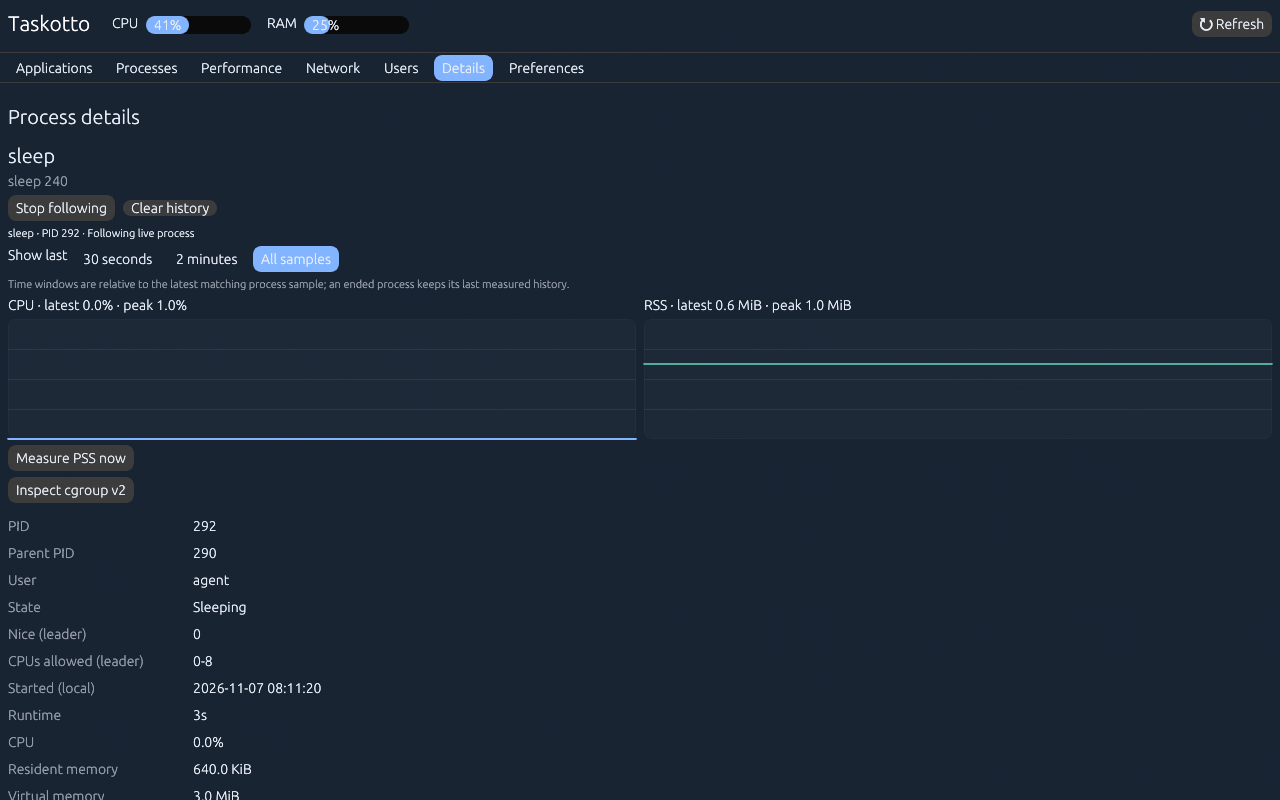
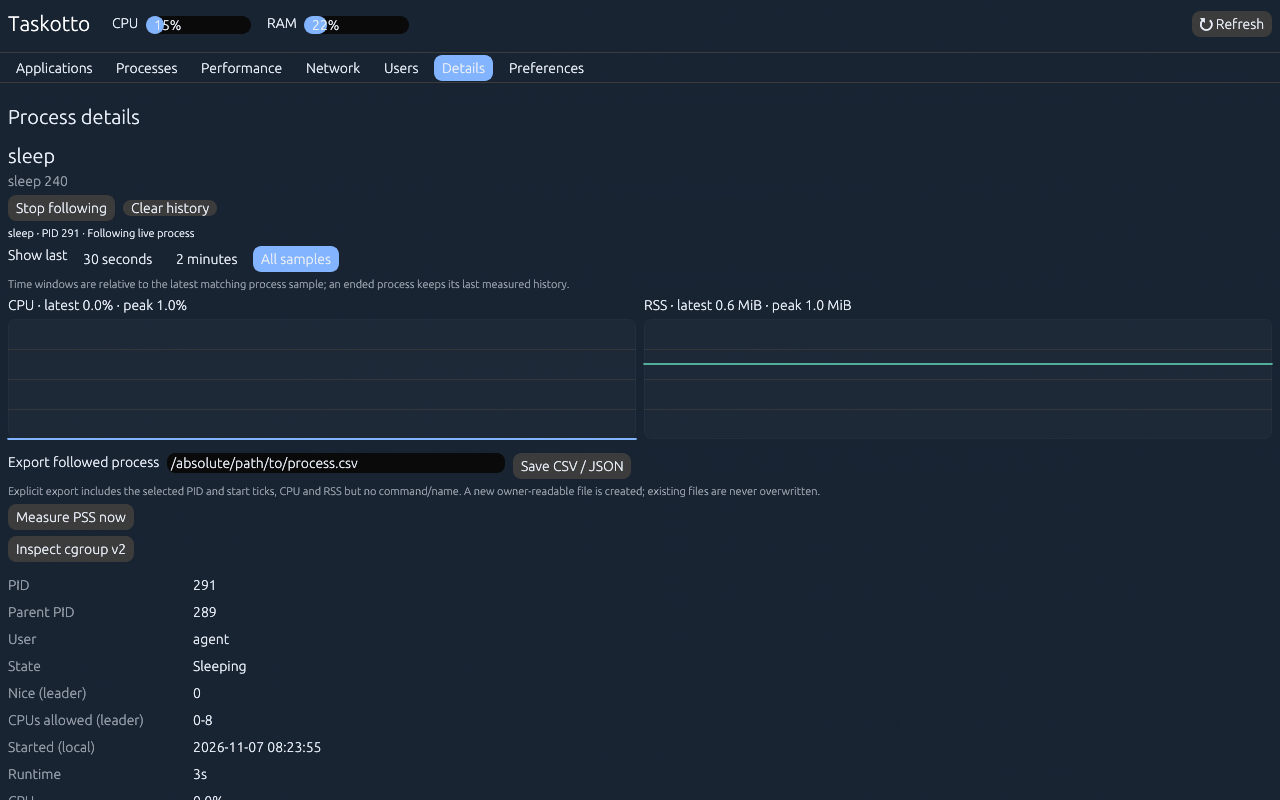
feat: export followed process history privately (rc50) (#58)

diff --git a/src/ui/history_export.rs b/src/ui/history_export.rs
@@ -1,7 +1,7 @@
 //! Explicit, bounded exports of the current GUI session's sampler-visible
-//! system metrics; procfs/namespace visibility can vary in containers.
-//! samples. No PIDs, process names, commands, retained files or worker daemon.
-use super::History;
+//! system metrics and opt-in process-follow data. Process export includes PID
+//! identity by explicit choice; neither mode retains files automatically.
+use super::{History, ProcessFollow};
 use serde::Serialize;
 use std::{
     fmt::Write as _,
@@ -33,6 +33,24 @@ struct Row {
     psi_memory_full_avg10_percent: Option<f32>,
     psi_io_some_avg10_percent: Option<f32>,
     psi_io_full_avg10_percent: Option<f32>,
+}
+
+#[derive(Serialize)]
+struct ProcessExport {
+    format_version: u8,
+    scope: &'static str,
+    pid: i32,
+    start_ticks: u64,
+    nominal_interval_ms: u64,
+    sample_count: usize,
+    samples: Vec<ProcessRow>,
+}
+
+#[derive(Serialize)]
+struct ProcessRow {
+    timestamp_unix_ms: Option<u64>,
+    cpu_percent: Option<f32>,
+    resident_mib: Option<f32>,
 }
 
 fn valid(value: f32) -> Option<f32> {
@@ -151,6 +169,92 @@ pub(super) fn write_new(
             ));
         }
     };
+    write_private_new(path, &contents)?;
+    Ok(export.sample_count)
+}
+
+fn process_rows(follow: &ProcessFollow, interval_ms: u64) -> io::Result<ProcessExport> {
+    let count = follow.cpu.len();
+    if count == 0 {
+        return Err(io::Error::new(
+            io::ErrorKind::InvalidInput,
+            "Followed process has no samples yet",
+        ));
+    }
+    if count > ProcessFollow::LIMIT
+        || count != follow.rss_mib.len()
+        || count != follow.sampled_at_unix_ms.len()
+    {
+        return Err(io::Error::new(
+            io::ErrorKind::InvalidData,
+            "Process-follow history is not aligned",
+        ));
+    }
+    let samples = (0..count)
+        .map(|index| ProcessRow {
+            timestamp_unix_ms: follow.sampled_at_unix_ms[index],
+            cpu_percent: valid(follow.cpu[index]),
+            resident_mib: valid(follow.rss_mib[index]),
+        })
+        .collect();
+    Ok(ProcessExport {
+        format_version: 1,
+        scope: "linux-observed-process",
+        pid: follow.pid,
+        start_ticks: follow.start_ticks,
+        nominal_interval_ms: interval_ms,
+        sample_count: count,
+        samples,
+    })
+}
+
+pub(super) fn write_process_new(
+    follow: &ProcessFollow,
+    path: &Path,
+    interval_ms: u64,
+) -> io::Result<usize> {
+    if !path.is_absolute() {
+        return Err(io::Error::new(
+            io::ErrorKind::InvalidInput,
+            "Enter an absolute destination path",
+        ));
+    }
+    let export = process_rows(follow, interval_ms)?;
+    let contents = match path.extension().and_then(|ext| ext.to_str()) {
+        Some("json") => serde_json::to_vec_pretty(&export).map_err(io::Error::other)?,
+        Some("csv") => {
+            let mut csv = String::from(
+                "format_version,scope,pid,start_ticks,nominal_interval_ms,timestamp_unix_ms,cpu_percent,resident_mib\n",
+            );
+            for sample in &export.samples {
+                writeln!(
+                    &mut csv,
+                    "{},{},{},{},{},{},{},{}",
+                    export.format_version,
+                    export.scope,
+                    export.pid,
+                    export.start_ticks,
+                    export.nominal_interval_ms,
+                    cell(sample.timestamp_unix_ms),
+                    cell(sample.cpu_percent),
+                    cell(sample.resident_mib)
+                )
+                .expect("writing to a String cannot fail");
+            }
+            csv.into_bytes()
+        }
+        _ => {
+            return Err(io::Error::new(
+                io::ErrorKind::InvalidInput,
+                "Destination must end in .csv or .json",
+            ));
+        }
+    };
+    write_private_new(path, &contents)?;
+    Ok(export.sample_count)
+}
+
+fn write_private_new(path: &Path, contents: &[u8]) -> io::Result<()> {
     let mut options = OpenOptions::new();
     options.write(true).create_new(true);
     #[cfg(unix)]
@@ -159,11 +263,11 @@ pub(super) fn write_new(
         options.mode(0o600);
     }
     let mut file = options.open(path)?;
-    if let Err(error) = file.write_all(&contents).and_then(|()| file.sync_all()) {
+    if let Err(error) = file.write_all(contents).and_then(|()| file.sync_all()) {
         let _ = std::fs::remove_file(path);
         return Err(error);
     }
-    Ok(export.sample_count)
+    Ok(())
 }
 
 #[cfg(test)]
@@ -233,5 +337,51 @@ mod tests {
         std::fs::remove_file(&path).unwrap();
         assert!(write_new(&test_history(), Path::new("relative.csv"), 1000).is_err());
         assert!(write_new(&test_history(), Path::new("/tmp/unsupported.txt"), 1000).is_err());
+    }
+
+    #[test]
+    fn process_follow_export_preserves_identity_and_gaps_without_commands() {
+        let mut follow = ProcessFollow::new(&crate::monitor::Process {
+            pid: 1234,
+            start_ticks: 5678,
+            name: "secret-command".into(),
+            ..Default::default()
+        });
+        follow.cpu = VecDeque::from([5.0, 6.0]);
+        follow.rss_mib = VecDeque::from([2.0, 3.0]);
+        follow.sampled_at_unix_ms = VecDeque::from([Some(1_700_000_000_000), None]);
+        let export = process_rows(&follow, 1500).unwrap();
+        assert_eq!(export.sample_count, 2);
+        let json = serde_json::to_string(&export).unwrap();
+        assert!(json.contains("\"pid\":1234"));
+        assert!(json.contains("\"start_ticks\":5678"));
+        assert!(json.contains("\"resident_mib\":3.0"));
+        assert!(!json.contains("secret-command"));
+        assert!(json.contains("\"timestamp_unix_ms\":null"));
+        let path = std::env::temp_dir().join(format!(
+            "taskotto-follow-export-{}-{}.csv",
+            std::process::id(),
+            std::time::SystemTime::now()
+                .duration_since(std::time::UNIX_EPOCH)
+                .unwrap()
+                .as_nanos()
+        ));
+        assert_eq!(write_process_new(&follow, &path, 1500).unwrap(), 2);
+        assert!(write_process_new(&follow, &path, 1500).is_err());
+        let csv = std::fs::read_to_string(&path).unwrap();
+        assert_eq!(csv.lines().count(), 3);
+        assert!(csv.contains("linux-observed-process,1234,5678,1500"));
+        assert!(!csv.contains("secret-command"));
+        #[cfg(unix)]
+        {
+            use std::os::unix::fs::PermissionsExt;
+            assert_eq!(
+                std::fs::metadata(&path).unwrap().permissions().mode() & 0o777,
+                0o600
+            );
+        }
+        std::fs::remove_file(&path).unwrap();
+        follow.rss_mib.pop_back();
+        assert!(process_rows(&follow, 1500).is_err());
     }
 }

diff --git a/src/ui.rs b/src/ui.rs
@@ -150,6 +150,8 @@ struct ProcessFollow {
     sampled_at_unix_ms: VecDeque<Option<u64>>,
     /// Session-only elapsed window, relative to the last observed sample.
     view_seconds: Option<u64>,
+    /// Opt-in destination; never serialized to user preferences.
+    export_path: String,
     missed: usize,
     active: bool,
 }
@@ -166,6 +168,7 @@ impl ProcessFollow {
             rss_mib: VecDeque::new(),
             sampled_at_unix_ms: VecDeque::new(),
             view_seconds: None,
+            export_path: String::new(),
             missed: 0,
             active: true,
         }
@@ -2272,6 +2275,30 @@ impl TaskottoApp {
                 draw_mem(&mut columns[1]);
             });
         }
+        ui.add_space(8.0);
+        ui.horizontal_wrapped(|ui| {
+            ui.label("Export followed process");
+            ui.add(
+                egui::TextEdit::singleline(&mut follow.export_path)
+                    .desired_width(330.0)
+                    .hint_text("/absolute/path/to/process.csv"),
+            );
+            if ui.button("Save CSV / JSON").clicked() {
+                let path = PathBuf::from(follow.export_path.trim());
+                match history_export::write_process_new(follow, &path, self.settings.refresh_ms) {
+                    Ok(count) => {
+                        self.notification = Some(format!(
+                            "Exported {count} followed-process samples: {}",
+                            path.display()
+                        ))
+                    }
+                    Err(error) => {
+                        self.notification = Some(format!("Process-follow export failed: {error}"))
+                    }
+                }
+            }
+        });
+        ui.label(RichText::new("Explicit export includes the selected PID and start ticks, CPU and RSS but no command/name. A new owner-readable file is created; existing files are never overwritten.").small().weak());
     }
 
     fn confirmation_dialog(&mut self, ctx: &egui::Context) {

diff --git a/README.md b/README.md
@@ -6,11 +6,11 @@
 
 A customizable process manager and system monitor written in **Rust**. Runs alone or alongside [RiceBowl](https://github.com/CopyPasteUser/Ricebowl) on **X11 and Wayland**.
 
-![License](https://img.shields.io/badge/license-MIT-blue) ![Rust](https://img.shields.io/badge/language-Rust-orange) ![Status](https://img.shields.io/badge/status-1.0%20RC49-yellow)
+![License](https://img.shields.io/badge/license-MIT-blue) ![Rust](https://img.shields.io/badge/language-Rust-orange) ![Status](https://img.shields.io/badge/status-1.0%20RC50-yellow)
 
 </div>
 
-> **Status:** `1.0.0-rc.49` — seven dedicated interfaces: Frutiger Aero, ChromeOS, Windows 98, XP Luna, Windows 7, Windows 10 and macOS Activity Monitor, plus optional data-defined client screens. **All eight profiles leave the window frame, title and window buttons to RiceBowl/the active window manager**; Taskotto draws only its content, menus and functional toolbars. Native GUI and resource-use acceptance are still outstanding. See [1.0 roadmap](ROADMAP.md), [future development roadmap](EXPANSION_ROADMAP.md) and [QA checklist](QA.md). This is **not yet stable 1.0**.
+> **Status:** `1.0.0-rc.50` — seven dedicated interfaces: Frutiger Aero, ChromeOS, Windows 98, XP Luna, Windows 7, Windows 10 and macOS Activity Monitor, plus optional data-defined client screens. **All eight profiles leave the window frame, title and window buttons to RiceBowl/the active window manager**; Taskotto draws only its content, menus and functional toolbars. Native GUI and resource-use acceptance are still outstanding. See [1.0 roadmap](ROADMAP.md), [future development roadmap](EXPANSION_ROADMAP.md) and [QA checklist](QA.md). This is **not yet stable 1.0**.
 
 ## Screenshots
 
@@ -135,7 +135,7 @@ A customizable process manager and system monitor written in **Rust**. Runs alon
 
 ## What works
 
-- **Processes:** searchable live list, CPU/RAM/I/O/PID/name sort, session-only sort freeze (`Ctrl+Shift+Space`), tree, user filter, process start/runtime and per-process I/O rates. Opt-in **Follow selected process** charts record up to 120 CPU/RSS samples without PID-reuse mistakes; switch between the last **30 seconds, 2 minutes or all observations** using real GUI-receipt timestamps. At narrow widths charts stack vertically; no extra daemon or saved process log. Open generic Details or Preferences → Process follow. Details/Properties/Info summarize observed descendant CPU and **summed RSS** (shared pages may overlap), plus read-only leader Nice/CPU-affinity metadata (other threads may differ). An explicit **Measure PSS now** action in generic Details/Preferences calculates proportional memory for at most 128 observed tree processes on a background worker; missing procfs permissions show an incomplete report, never fake zero.
+- **Processes:** searchable live list, CPU/RAM/I/O/PID/name sort, session-only sort freeze (`Ctrl+Shift+Space`), tree, user filter, process start/runtime and per-process I/O rates. Opt-in **Follow selected process** charts record up to 120 CPU/RSS samples without PID-reuse mistakes; switch between the last **30 seconds, 2 minutes or all observations** using real GUI-receipt timestamps. At narrow widths charts stack vertically; no extra daemon or automatically saved process log. An explicit **Save CSV / JSON** action exports the currently followed PID, start ticks and samples to a new owner-only file (no command/name, no overwrite). Open generic Details or Preferences → Process follow. Details/Properties/Info summarize observed descendant CPU and **summed RSS** (shared pages may overlap), plus read-only leader Nice/CPU-affinity metadata (other threads may differ). An explicit **Measure PSS now** action in generic Details/Preferences calculates proportional memory for at most 128 observed tree processes on a background worker; missing procfs permissions show an incomplete report, never fake zero.
 - **Safe actions:** terminate, force kill, pause and resume with confirmation and PID-reuse protection via Linux `pidfd`.
 - **Performance:** CPU/core load, RAM/swap, network RX/TX and disk read/write rates, bounded comparative rolling graphs. Linux **PSI** shows measured CPU, memory and I/O task-stall percentages over 10/60/300 seconds, bounded PSI trend charts and conservative, evidence-labeled investigation hints in System Performance and all rice Preferences. Thresholds are display heuristics, not kernel limits or proven causes.
 - **Session export:** In Preferences, explicitly export up to 120 Linux sampler-visible system samples as a new `.csv` or `.json` file. Exports include GUI-receipt Unix timestamps, nominal interval and units; container visibility may vary. No file is written by default; no existing destination is overwritten, and no process names, commands or PIDs are included. Missing PSI readings remain missing.

diff --git a/QA.md b/QA.md
@@ -39,7 +39,8 @@ archive and invokes its binary and local desktop installer before publishing.
 - [ ] With a live process list, press Ctrl+Shift+Space (and use Preferences → Process table) to freeze ordering. Verify values still change, a new child stays under its parent in tree mode, and unfreeze immediately restores the configured sort. Restart Taskotto to confirm freeze is not persisted. Check the generic **Freeze order** button as well.
 - [ ] In generic Details or Preferences → Process follow, select a disposable process and click **Follow selected process**. Verify real CPU/RSS trends, stop/clear/retarget, window resize and keyboard navigation. Exit the process: no invented zero samples; after three missed samples tracking ends and never attaches to a reused PID. Restart: history is gone.
 - [ ] While following a live process, switch between 30 seconds, 2 minutes and All samples. Verify displayed CPU/RSS peaks use only the selected elapsed window, gaps do not become zero or fake uniform spacing, and the record remains bounded at 120 observations. Shrink the GUI below 640 px to confirm CPU/RSS charts stack legibly. After stopping or PID reuse, no historical process values should attach to the replacement PID.
-  - [ ] In the timed views, compare points after a deliberately long sampling pause: their horizontal distance must reflect elapsed time. In All samples, horizontal spacing intentionally represents observation order instead.
+- [ ] In the timed views, compare points after a deliberately long sampling pause: their horizontal distance must reflect elapsed time. In All samples, horizontal spacing intentionally represents observation order instead.
+- [ ] Explicitly export a followed process to fresh `.csv` and `.json` absolute paths; compare PID+start-tick identity, GUI-receipt timestamps, CPU%/RSS MiB, missing timestamps and sample count with the screen. Confirm command/name are not exported, 0600 permissions, no overwrites of existing paths, no process history after restart, and correct notification on invalid/no-sample destinations. Verify export still refers to the followed PID if user selection changes.
 - [ ] Switch all 8 profiles, density, custom accent/surface/text, font scale, spacing, corners, table columns/row height and sidebar/top-tabs; reopen and verify persistence.
 - [ ] Launch with `RICEBOWL_RICE=windows7 taskotto` and explicit `--theme xp-luna` override.
 - [ ] Validate `examples/ricepacks/sea-glass.toml` with `--check-ricepack`, then run `--ricepack` on a real desktop. Verify base theme, palette/spacing/navigation and normal process actions; restart without the pack and ensure saved appearance is unchanged.

diff --git a/CHANGELOG.md b/CHANGELOG.md
@@ -2,6 +2,12 @@
 
 Taskotto follows semantic versioning; hardware-dependent stable-release gates are explicit.
 
+## [1.0.0-rc.50] — 2026-11-07
+
+- Added deliberately triggered, private CSV/JSON export of the currently followed process's bounded CPU/RSS history. Includes numeric PID+start-tick identity, observed GUI-receipt timestamps, MiB/percentage units, scope and nominal interval; excludes process name and command, refuses existing files, requires an absolute path and writes owner-only permissions.
+- Reused RC45's safe new-file writer rather than duplicating file logic. Tests cover JSON/CSV fields, missing timestamps, alignment, sensitive-name omission, overwrite refusal and file mode. Process history stays in RAM until user chooses export.
+- Regenerated the real headless process-follow screenshot to include the export control and its privacy explanation.
+
 ## [1.0.0-rc.49] — 2026-11-07
 
 - Added genuine cgroup-local CPU, memory and I/O PSI to the existing selected-PID, asynchronous read-only cgroup v2 inspector. Reuses Taskotto's strictly validated kernel PSI parser for SOME/FULL 10/60/300-second stalled-task percentages and cumulative microseconds; cgroup CPU FULL is supported when present, unlike meaningless system CPU FULL.

diff --git a/RELEASE_NOTES.md b/RELEASE_NOTES.md
@@ -1,4 +1,10 @@
-# Taskotto 1.0.0-rc.49 — release candidate
+# Taskotto 1.0.0-rc.50 — release candidate
+
+## RC50 — Optional private followed-process history export
+
+- The process-follow control in Details and Preferences now offers a separate explicit CSV/JSON export to a new absolute file with Unix `0600` permissions. Only the selected follow's numeric PID, start-tick identity, recorded timestamp, CPU percentage and RSS MiB enter the file; the process name, command, other processes and unrelated host histories are not included.
+- Every row is labeled with schema version, process scope and nominal interval. Missing timestamps remain missing, no existing file is overwritten and data never persists without a deliberate click. Export continues to refer to the followed PID after changing the selection; the display identifies that target.
+- Added pure formatting, missing-data, identity, no-overwrite and permissions tests. Native user interaction/permission acceptance remains open.
 
 ## RC49 — Real cgroup v2 pressure readings
 

diff --git a/EXPANSION_ROADMAP.md b/EXPANSION_ROADMAP.md
@@ -150,8 +150,11 @@ with **no new Rust UI module**. No untrusted scripts or arbitrary shell hooks.
     process-follow views or all retained observations, with correct peaks,
     missing-timestamp exclusion and narrow-screen stacked graphs; sampling
     retention remains 120 observations and no new daemon is started.
-  - [ ] Explicit per-process history export and native lifetime/follow QA
-    remain open; RC45's system-aggregate export excludes process identities.
+  - [x] RC50: explicit private CSV/JSON export of the opted-in followed PID,
+    start ticks, timestamps, CPU and RSS; new-file-only, `0600`, no commands
+    or names, no background persistence. RC45's separate host-aggregate export
+    still excludes process identities.
+  - [ ] Native lifetime/follow/export acceptance remains open.
 
 **Gate:** no actions on PID reuse, no hidden root service, accurate
 distinction between processes, GUI windows and logical applications.
